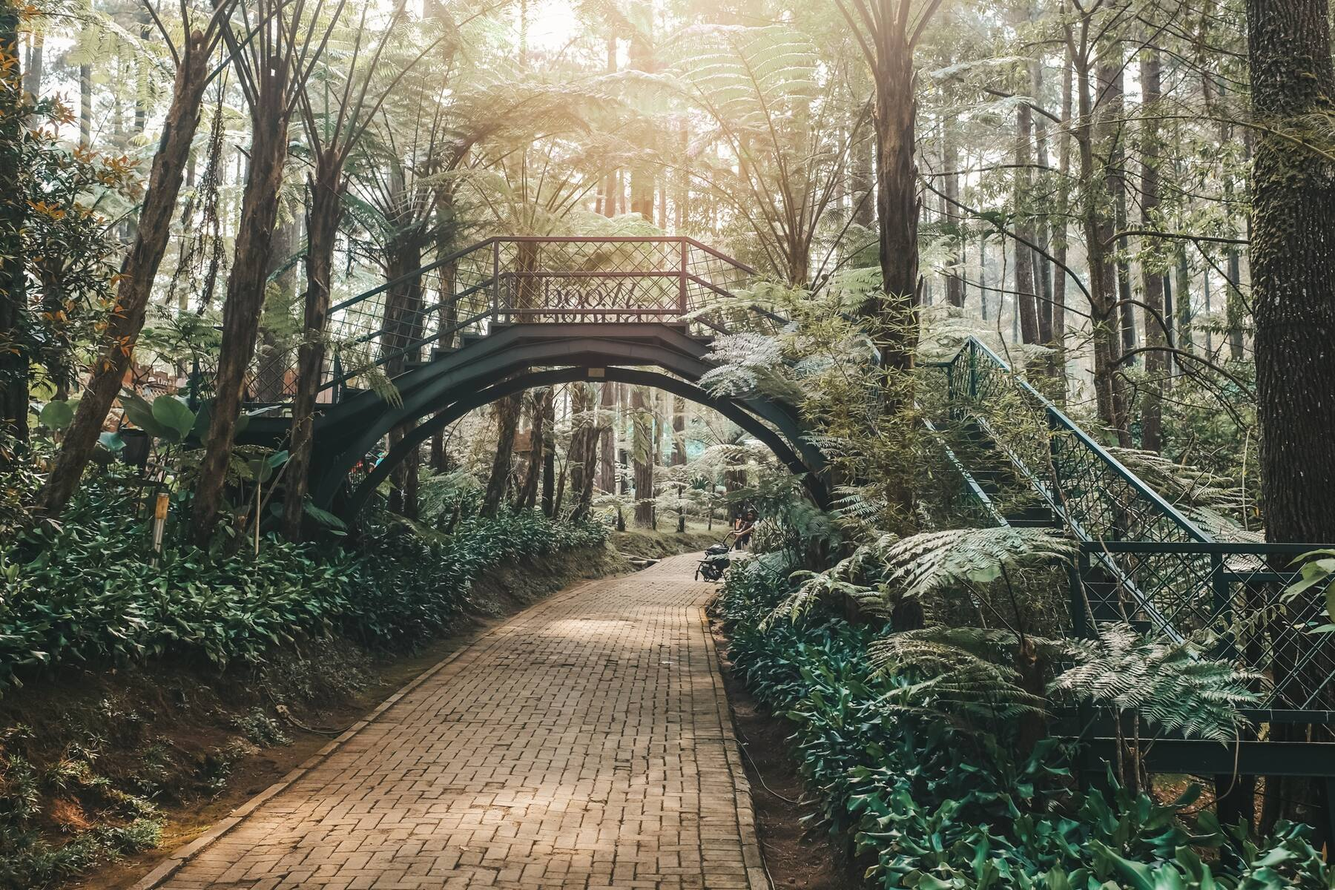
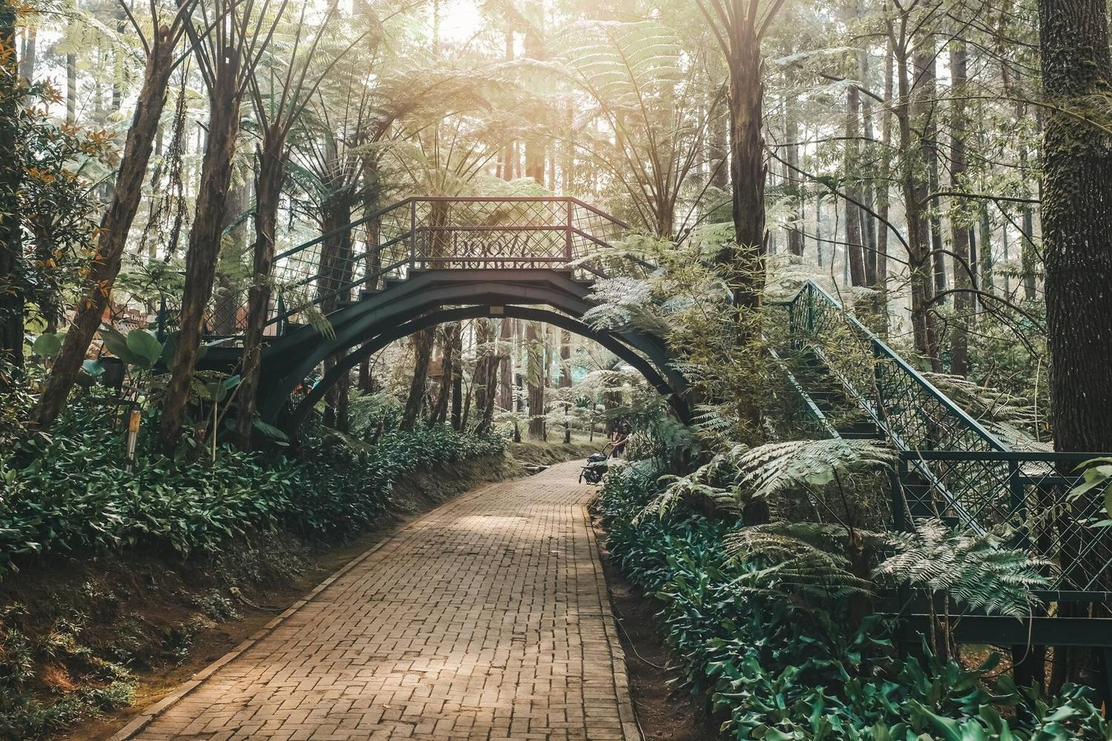
Fix intro Esc, share preview, image sizes and small JS issues
- Esc skips the intro even before focus enters it
- Absolute og:image/og:url so link previews show the image
- Recompress hutan.jpg and waduk.jpg under 400 KB, shrink logo PNG
- Brief date minimum uses local date instead of UTC
- Pause mobile hero drift animation while hero is off screen
- Hide filter chips that have no works yet (e.g. Video)
- Bump asset cache version to v=7

Claude-Session: https://claude.ai/code/session_01EsEQdpRjNpswATJ56WgZHj

diff --git a/js/main.js b/js/main.js
@@ -101,16 +101,20 @@
     });
   } else if (!reduce) {
     // layar sentuh: titik fokus bergerak pelan sendiri, sentuhan memindahkannya
-    let touchUntil = 0;
+    let touchUntil = 0, driftRaf = 0;
     hero.addEventListener("pointerdown", (e) => { touchUntil = performance.now() + 3500; focusAt(e.clientX, e.clientY); });
     const drift = (t) => {
-      if (t > touchUntil && hero.getBoundingClientRect().bottom > 0) {
+      if (t > touchUntil) {
         const r = hero.getBoundingClientRect();
         focusAt(r.left + r.width * (0.55 + 0.25 * Math.sin(t / 2600)), r.top + r.height * (0.35 + 0.12 * Math.sin(t / 1700)));
       }
-      requestAnimationFrame(drift);
+      driftRaf = requestAnimationFrame(drift);
     };
-    requestAnimationFrame(drift);
+    // animasi berhenti saat hero tidak terlihat, supaya hemat baterai
+    new IntersectionObserver(([e]) => {
+      if (e.isIntersecting && !driftRaf) driftRaf = requestAnimationFrame(drift);
+      else if (!e.isIntersecting && driftRaf) { cancelAnimationFrame(driftRaf); driftRaf = 0; }
+    }).observe(hero);
   }
 
   /* ---------- HERO: huruf bermunculan acak setelah intro ---------- */
@@ -212,6 +216,8 @@
   const counts = { semua: D.karya.length, foto: 0, video: 0 };
   D.karya.forEach((k) => counts[k.jenis]++);
   $$("[data-count]").forEach((el) => (el.textContent = counts[el.dataset.count]));
+  // sembunyikan filter yang belum punya karya (mis. Video); muncul lagi otomatis begitu ada
+  $$(".chip").forEach((c) => { if (c.dataset.filter !== "semua" && !counts[c.dataset.filter]) c.hidden = true; });
 
   $$(".chip").forEach((chip) =>
     chip.addEventListener("click", () => {
@@ -439,7 +445,8 @@
   }
 
   $("#builder").addEventListener("input", (e) => updateBuilder(e.target.type !== "text" && e.target.type !== "date"));
-  $("#tgl").min = new Date().toISOString().slice(0, 10);
+  const today = new Date(); // tanggal lokal pengunjung, bukan UTC
+  $("#tgl").min = `${today.getFullYear()}-${pad(today.getMonth() + 1)}-${pad(today.getDate())}`;
   syncPicks();
   pickCount.textContent = picks.size;
 

diff --git a/index.html b/index.html
@@ -9,14 +9,15 @@
   <meta property="og:title" content="Aura Project — Video & Fotografi" />
   <meta property="og:description" content="Merekam cahaya, gerak, dan cerita apa adanya." />
   <meta property="og:type" content="website" />
-  <meta property="og:image" content="assets/img/og.jpg" />
+  <meta property="og:url" content="https://auraproject00-web.github.io/aura-project-/" />
+  <meta property="og:image" content="https://auraproject00-web.github.io/aura-project-/assets/img/og.jpg" />
   <meta name="twitter:card" content="summary_large_image" />
   <link rel="icon" href="assets/favicon.svg" type="image/svg+xml" />
 
   <link rel="preconnect" href="https://fonts.googleapis.com" />
   <link rel="preconnect" href="https://fonts.gstatic.com" crossorigin />
   <link href="https://fonts.googleapis.com/css2?family=Instrument+Serif:ital@0;1&family=Geist:wght@400;500;600&family=Geist+Mono:wght@400;500&display=swap" rel="stylesheet" />
-  <link rel="stylesheet" href="css/style.css?v=6" />
+  <link rel="stylesheet" href="css/style.css?v=7" />
 </head>
 <body>
   <script>
@@ -307,8 +308,8 @@
     </div>
   </dialog>
 
-  <script src="js/intro.js?v=6"></script>
-  <script src="js/data.js?v=6"></script>
-  <script src="js/main.js?v=6"></script>
+  <script src="js/intro.js?v=7"></script>
+  <script src="js/data.js?v=7"></script>
+  <script src="js/main.js?v=7"></script>
 </body>
 </html>

diff --git a/js/intro.js b/js/intro.js
@@ -67,6 +67,7 @@
     if (window.AURA_INTRO === "done") return;
     window.AURA_INTRO = "done";
     window.dispatchEvent(new Event("aura:intro-done"));
+    document.removeEventListener("keydown", onEsc);
     try { sessionStorage.setItem("aura-intro", "1"); } catch (e) {}
     root.classList.remove("intro-lock");
     intro.classList.add("is-gone");
@@ -94,7 +95,9 @@
     if (e.key === " " || e.key === "Enter") { e.preventDefault(); setHolding(false); }
   });
   hold.addEventListener("click", (e) => e.preventDefault());
-  intro.addEventListener("keydown", (e) => { if (e.key === "Escape") close(); });
+  // Esc di level dokumen: berfungsi walau fokus belum masuk ke intro
+  function onEsc(e) { if (e.key === "Escape") close(); }
+  document.addEventListener("keydown", onEsc);
   skip.addEventListener("click", close);
 
   // parallax halus mengikuti kursor
